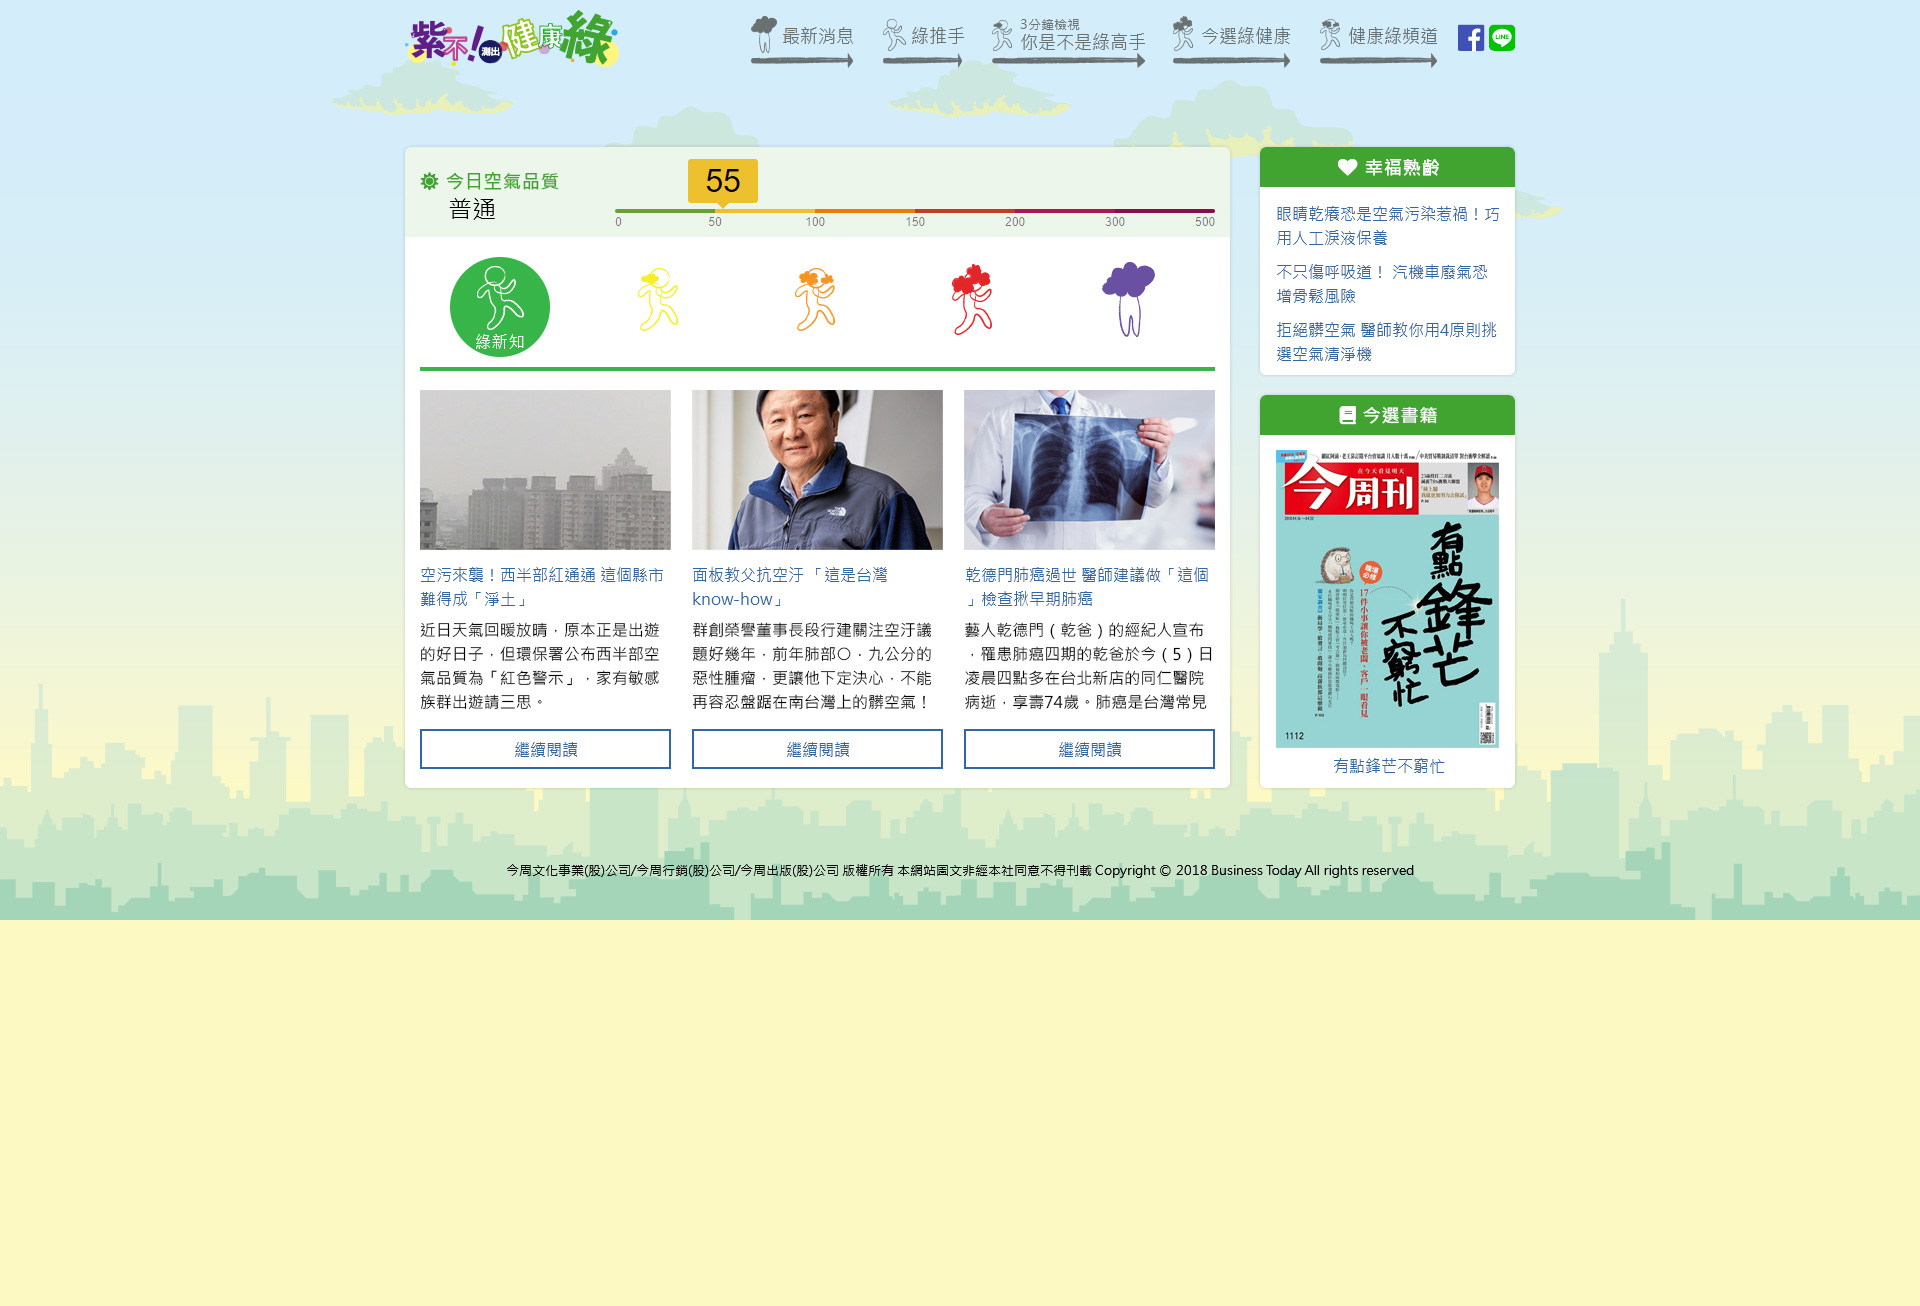
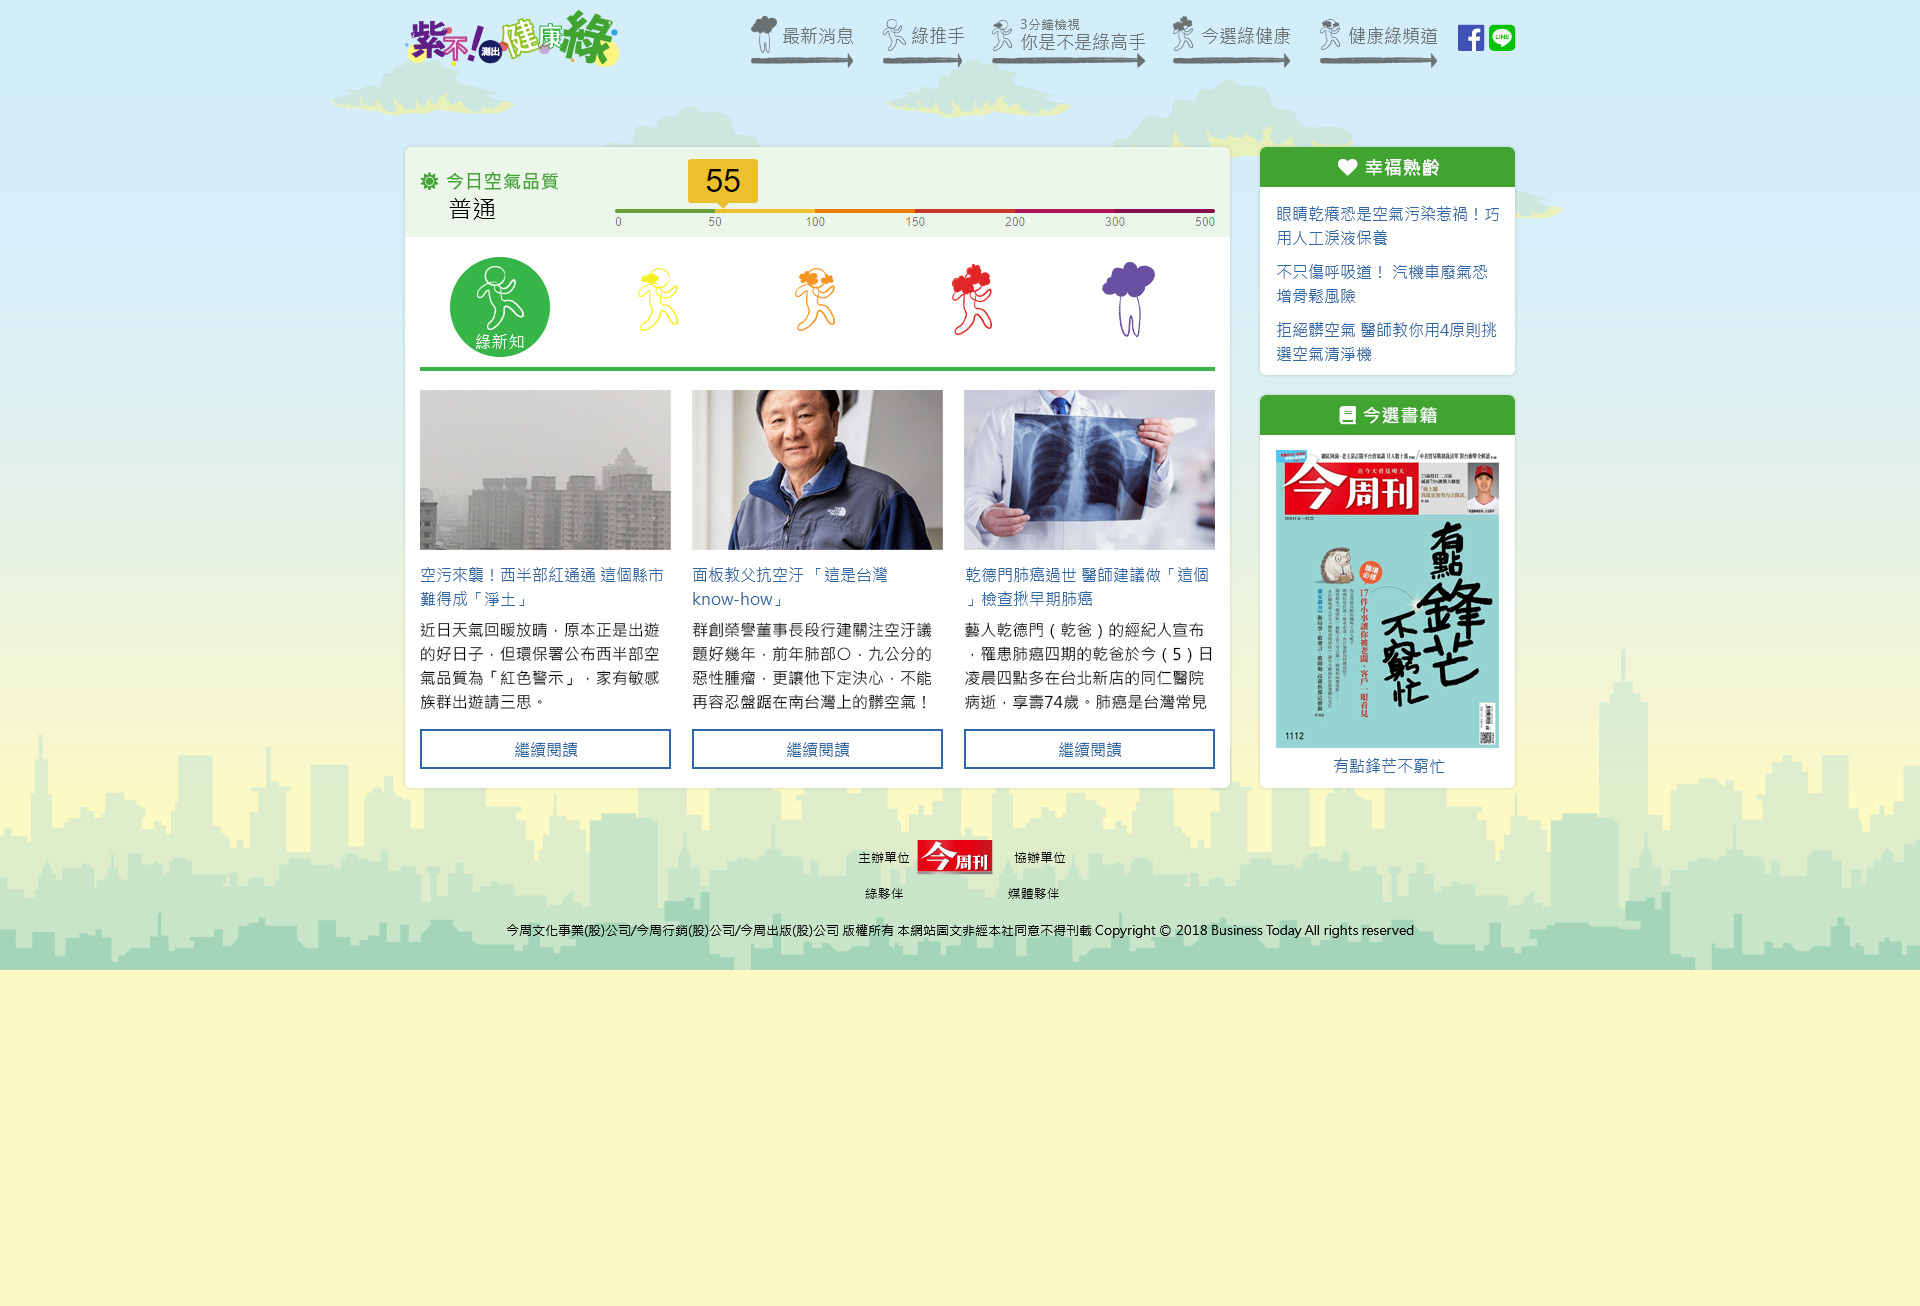
180417-4

Changed region(s): [[0.0, 0.5207, 1.0, 0.7657], [0.8125, 0.49, 0.875, 0.5207]]

diff --git a/preview/180417/index.html b/preview/180417/index.html
@@ -6,7 +6,7 @@
 <title>Preview</title>
 <style type="text/css">
 body {margin:0; padding:0; background:#fff;}
-a {margin:0 auto; display:block; width:100%; height:920px; background:url(index.jpg) center top no-repeat}
+a {margin:0 auto; display:block; width:100%; height:970px; background:url(index.jpg) center top no-repeat}
 </style>
 </head>
 

diff --git a/preview/180417/list.html b/preview/180417/list.html
@@ -6,7 +6,7 @@
 <title>Preview</title>
 <style type="text/css">
 body {margin:0; padding:0; background:#fff;}
-a {margin:0 auto; display:block; width:100%; height:1306px; background:url(list.jpg) center top no-repeat}
+a {margin:0 auto; display:block; width:100%; height:1400px; background:url(list.jpg) center top no-repeat}
 </style>
 </head>
 
